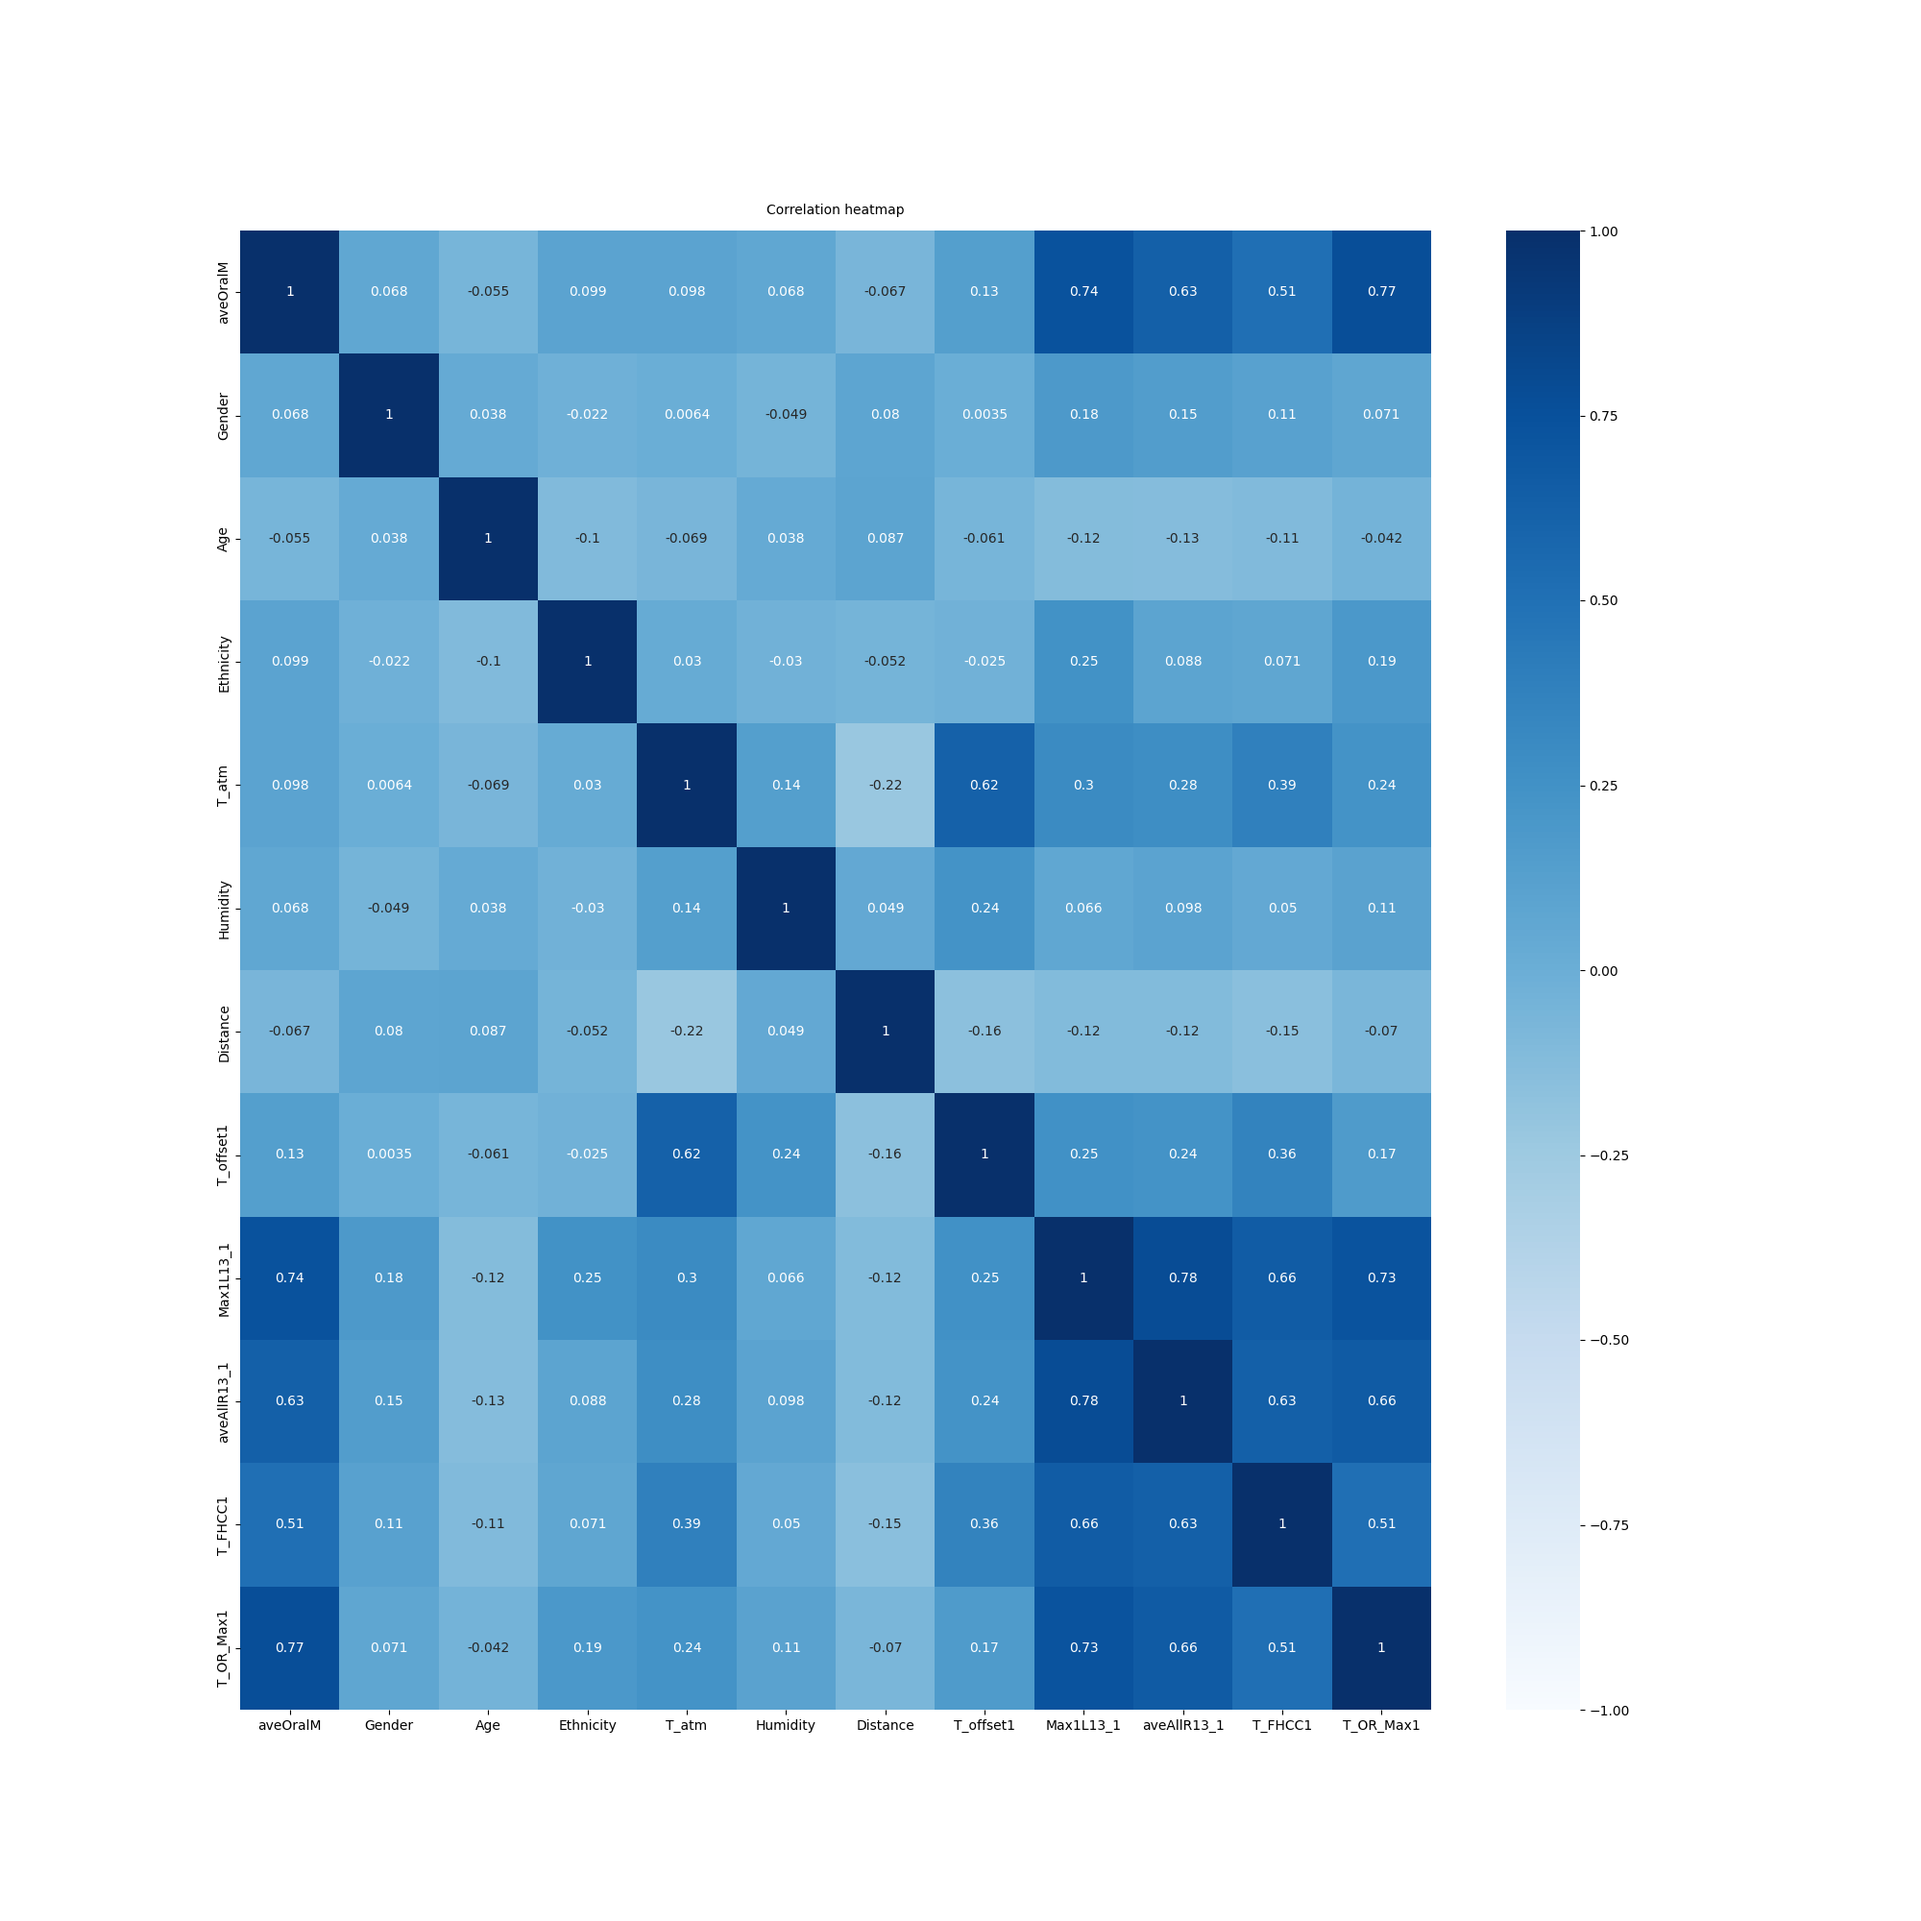
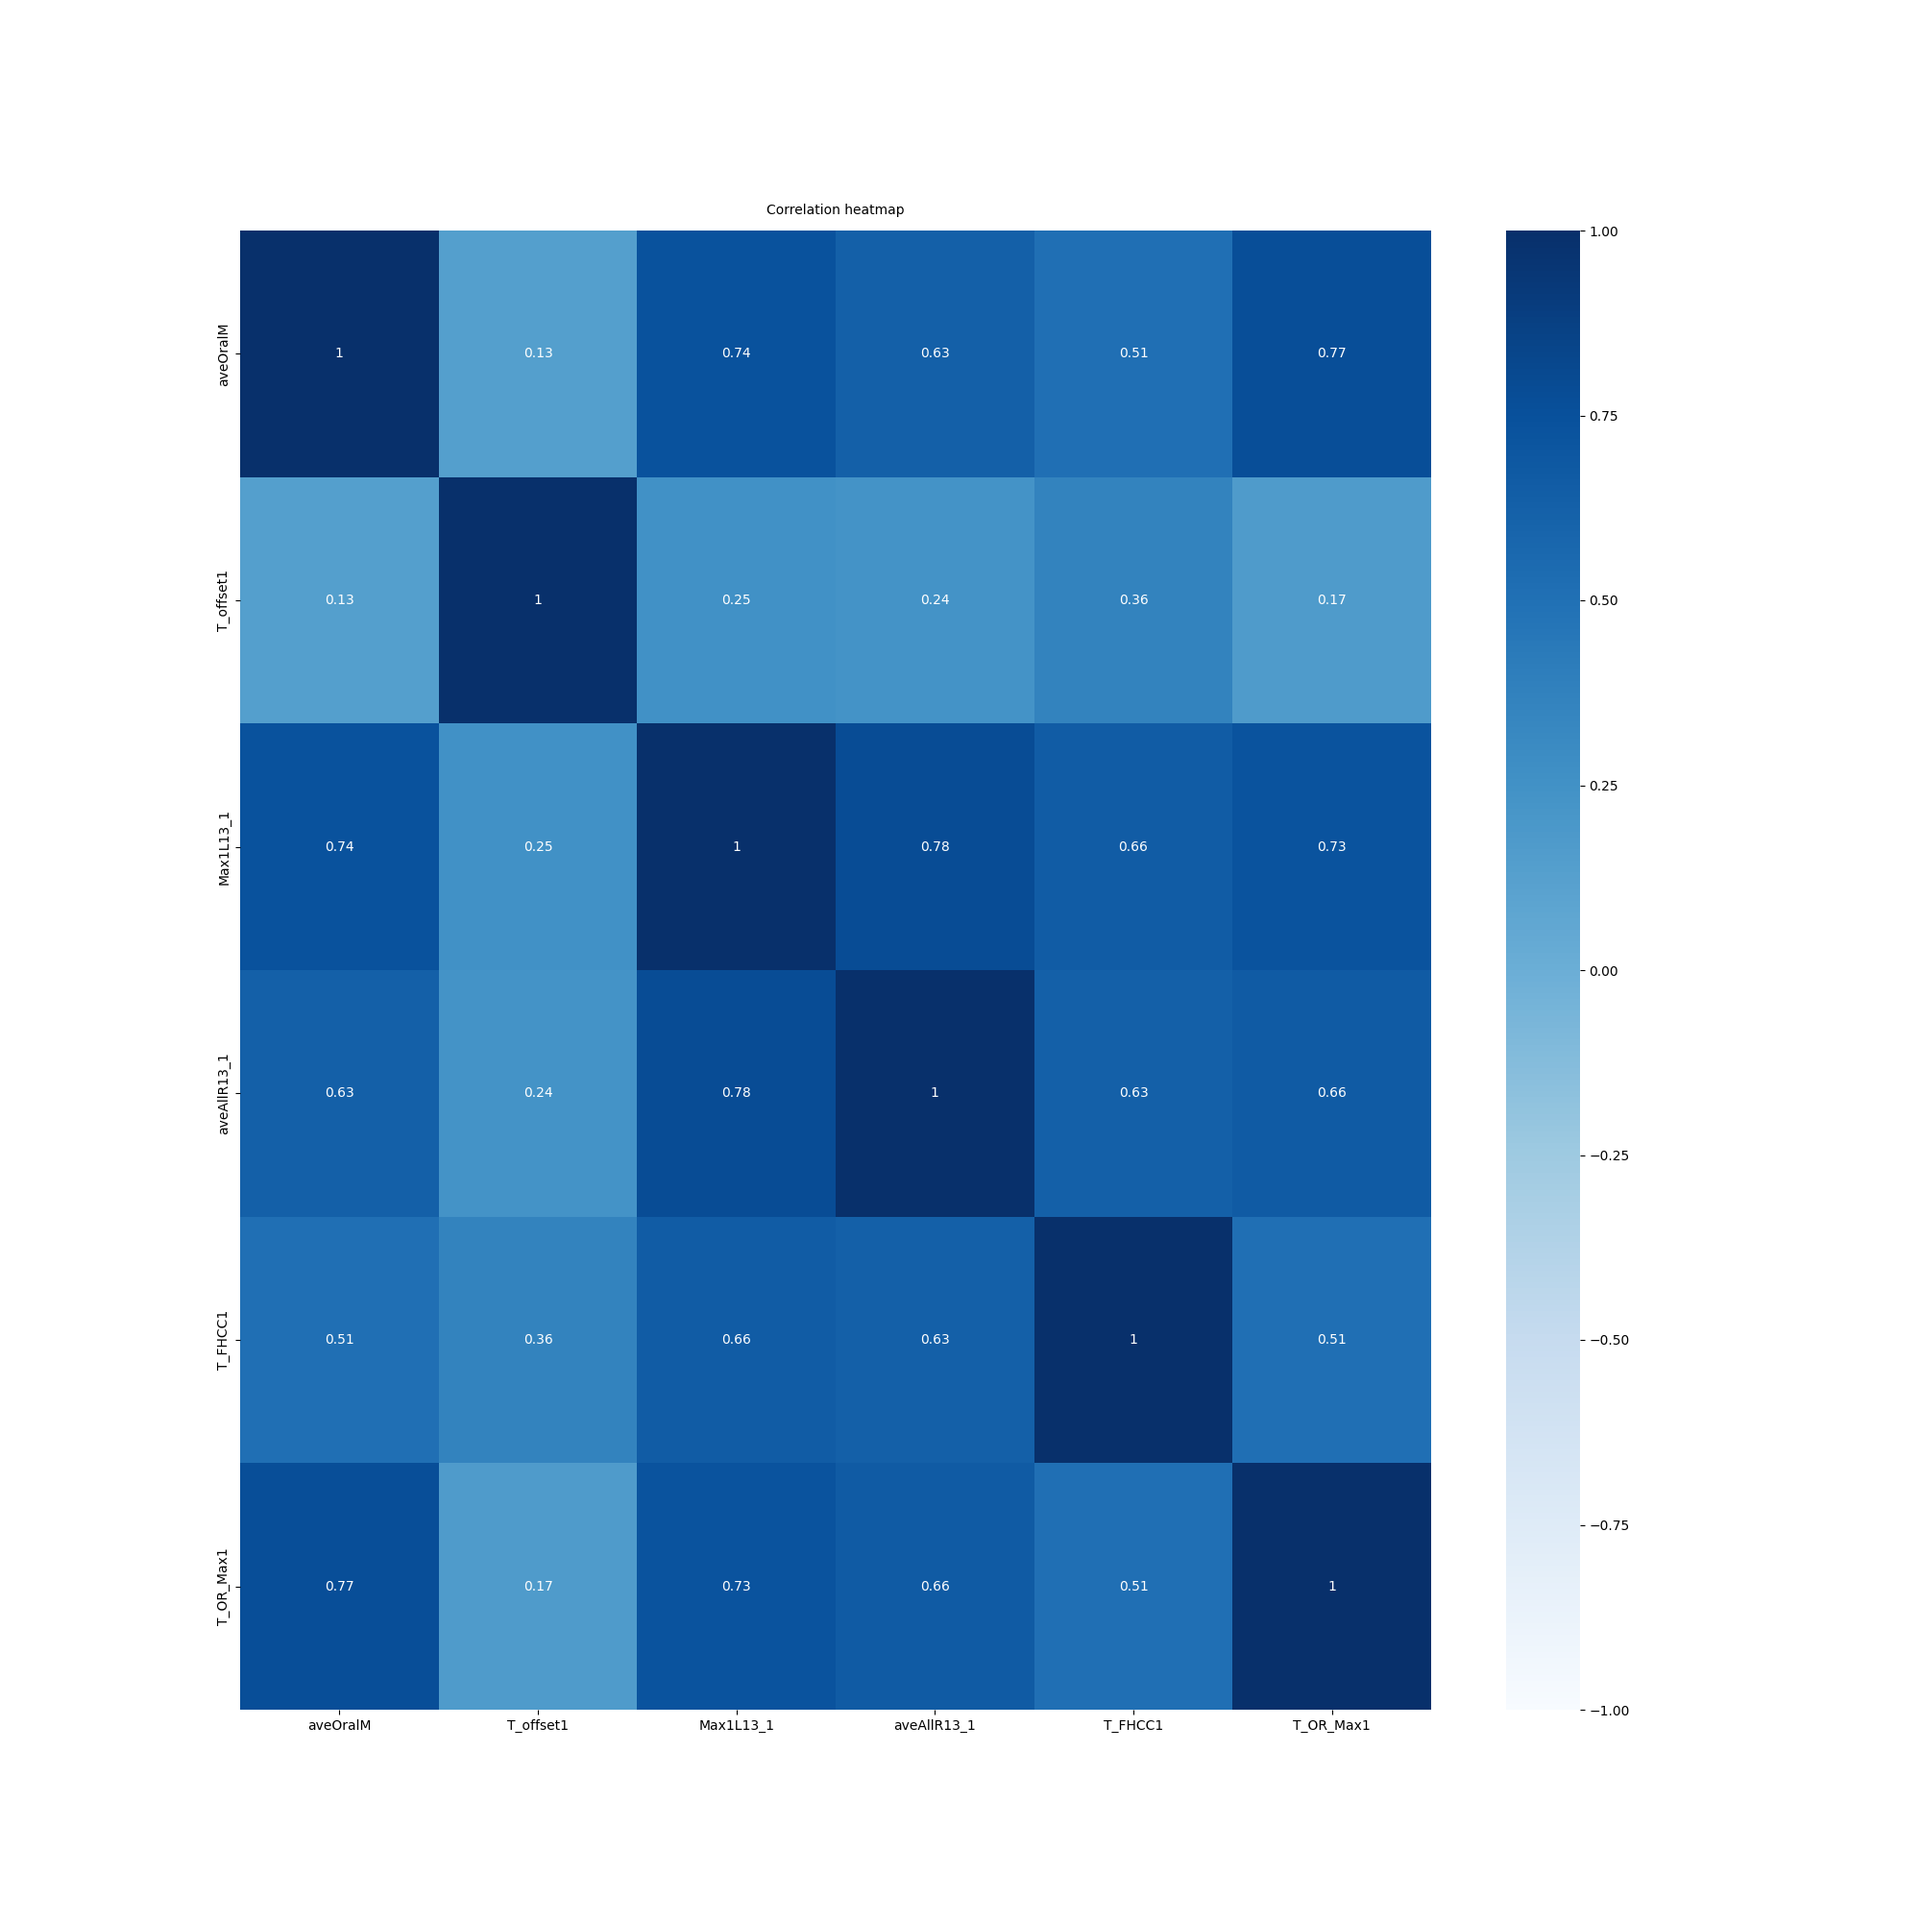
Renamed file and removed lowly correlated features.

diff --git a/InfraredThermographyTemperature/PrepareAndTestDataset.py b/InfraredThermographyTemperature/PrepareAndTestDataset.py
@@ -291,7 +291,8 @@ def main():
         "T_RC_Dry1", "T_RC_Wet1", "T_RC_Max1", "T_LC_Dry1", "T_LC_Wet1", "T_LC_Max1",
         "canthi4Max1", "T_FHRC1", "T_FHLC1", "T_FHBC1", "T_FHTC1", "T_OR1", "T_Max1",
         "T_FH_Max1", "T_FHC_Max1", "LCC1", "canthiMax1", "Max1R13_1", "aveAllL13_1",
-        "T_RC1", "T_LC1", "RCC1", "aveOralF"
+        "T_RC1", "T_LC1", "RCC1", "aveOralF", "Gender", "Age", "Ethnicity", "T_atm",
+        "Humidity", "Distance"
     ]
     df.drop(columns_to_drop, axis=1, inplace=True)
 
